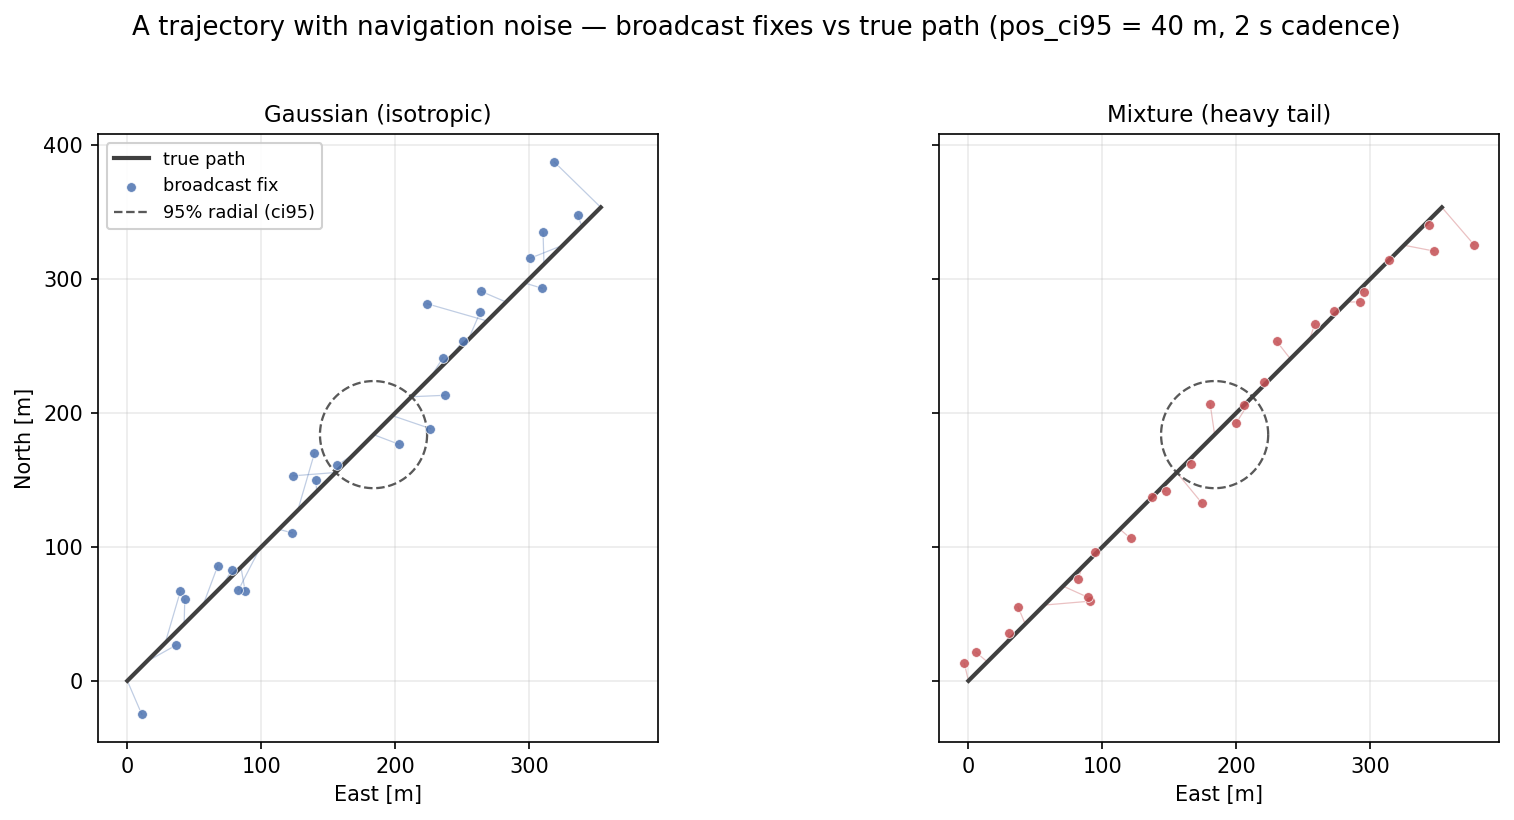
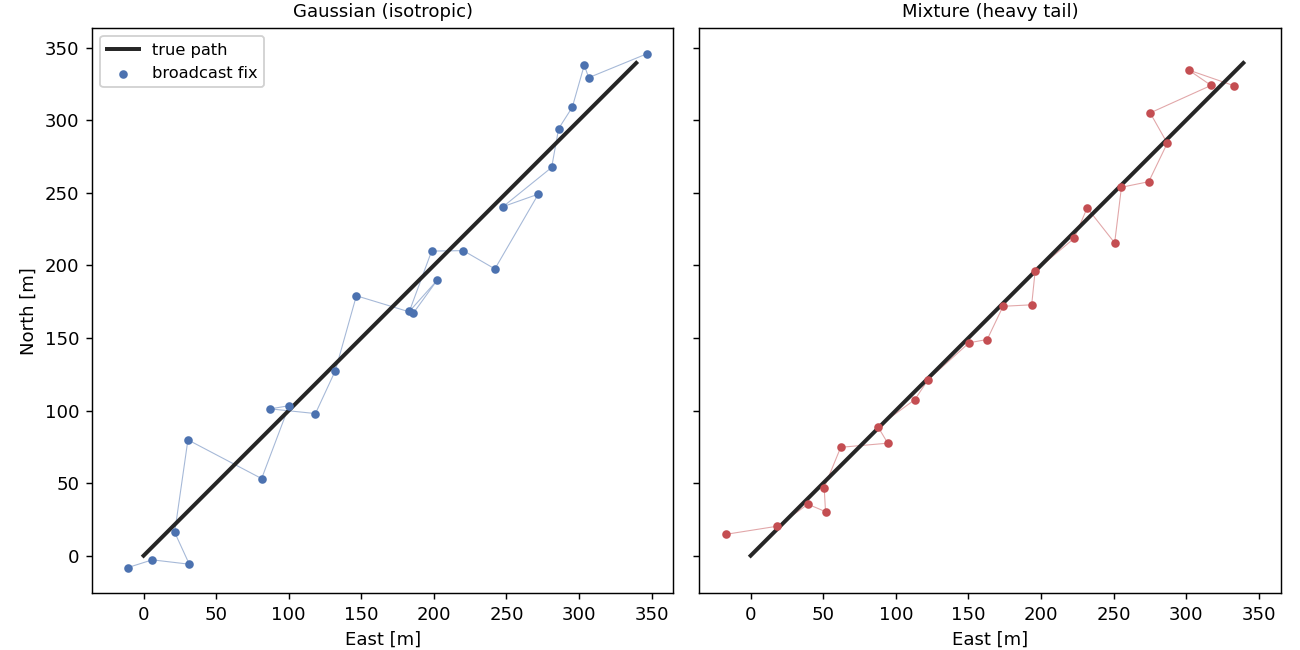
CNS handbook: finish surveillance, tidy navigation, nest Build-your-own
- surveillance.md: hold-as-is vs dead-reckoning, staleness as instrumentation,
  and asymmetric perception, each with a generated figure
- navigation.md: correct the own-state note (own fix carries noise but skips
  the comm layer), and move "add your own distribution" out to Build your own
- build-your-own/cns/: nested section (index + navigation) replacing the flat
  cns.md stub; update the build-your-own index link and mkdocs nav
- regenerate noisy-trajectory.png without the ci95 circle and title

diff --git a/docs/modules/cns/navigation.md b/docs/modules/cns/navigation.md
@@ -1,0 +1,148 @@
+# Navigation
+
+Navigation is the **N** of [CNS](index.md): it answers one question — **given an aircraft's true state, what does its own sensor report?** In OpenCDaRR the sensor is GNSS (GPS/ADS-B), modelled by
+[`GnssNavigation`](https://github.com/fazlurnu/OpenCDaRR/blob/main/opencdarr/cns/navigation.py),
+which measures position and velocity, each perturbed by a pluggable 2D error distribution, and returns a broadcastable `Message`. The error lives at the source and is applied once — everyone else perceives it through the broadcast that [communication](communication.md) then delivers.
+
+## Where the noise magnitude lives
+
+The noise magnitude is **not** a parameter of the navigation object. It is read
+from the aircraft being measured, via two fields on `AircraftState`:
+
+- `pos_ci95` — 95% radial position accuracy [m]
+- `vel_ci95` — 95% radial velocity accuracy [m/s]
+
+Accuracy is a property of *that aircraft's* sensor: it can differ between
+aircraft and may evolve over a run (e.g. degrading GPS coverage), so it travels
+with the clonable state rather than sitting on a shared navigation object. The
+default `0.0` on both means a perfect sensor — the measurement equals the truth,
+a clean regression to the no-noise case. `GnssNavigation` also **copies the same
+accuracy onto the broadcast**, so a receiver gets the sender's declared accuracy
+*with* the message, as ordinary state.
+
+## Position error — from CI95 to σ
+
+Position error is a zero-mean 2D isotropic Gaussian, each axis \(N(0, \sigma^2)\).
+GNSS accuracy is quoted as a **95% radial CI** — the radius containing 95% of
+fixes. The radial distance is Rayleigh, whose 95% quantile is
+\(\sigma\sqrt{\chi^2_{2,0.95}}\) with \(\chi^2_{2,0.95} = 5.9915\), so
+
+\[
+\text{CI95} = \sigma\sqrt{5.9915} = 2.4477\,\sigma
+\quad\Longrightarrow\quad
+\sigma = \frac{\text{CI95}}{2.4477} \approx 0.4085\,\text{CI95}.
+\]
+
+The error is drawn in the local East–North frame by the pluggable distribution,
+\((\text{rng}, \text{CI95}) \mapsto (e_E, e_N)\), and the measured position is the
+true position offset by that error through the project's own geodesy:
+
+\[
+\beta = \operatorname{atan2}(e_E, e_N), \quad
+\rho = \sqrt{e_E^2 + e_N^2}, \quad
+(\varphi', \lambda') = \texttt{geo.forward}(\varphi, \lambda, \beta, \rho).
+\]
+
+## Velocity error
+
+Velocity error is per-axis Gaussian \(N(0, \sigma_v^2)\) on the East–North
+components, with the same isotropic-2D CI95→σ conversion
+(\(\sigma_v = \text{vel\_ci95} / 2.4477\)). It is applied to the true velocity and
+converted back to a measured track and ground speed:
+
+\[
+(v_E, v_N) = \big(v\sin\psi + \varepsilon_E,\; v\cos\psi + \varepsilon_N\big),
+\quad
+\psi' = \operatorname{atan2}(v_E, v_N), \quad
+v' = \sqrt{v_E^2 + v_N^2}.
+\]
+
+The result is a `Message(source, state, t_meas)` — the noisy self-measurement,
+timestamped for the communication layer to deliver.
+
+!!! note "The own self-fix carries noise, but never staleness"
+    An aircraft decides on its **own noisy self-fix**, not on its true state —
+    both endpoints of an encounter carry navigation error. What the own fix skips
+    is the [communication](communication.md) layer: an aircraft always has a
+    *fresh* measurement of itself, never a dropped or stale one, whereas its view
+    of **others** is whatever the broadcast last delivered. All navigation draws
+    come from one dedicated RNG substream, drawn in agent order, so a run is fully
+    reproducible.
+
+## Noise distributions
+
+A noise distribution is any callable matching the `NoiseDistribution` protocol:
+
+```python
+(rng: np.random.Generator, ci95: float) -> tuple[float, float]   # (east, north) error [m]
+```
+
+OpenCDaRR ships four, all in
+[`opencdarr/cns/noise_distributions.py`](https://github.com/fazlurnu/OpenCDaRR/blob/main/opencdarr/cns/noise_distributions.py):
+
+| Distribution | Factory | Shape |
+|---|---|---|
+| Isotropic Gaussian | `gaussian` | circular, thin-tailed |
+| Heavy-tail mixture | `make_mixture_gaussian(tail_ratio, tail_weight)` | circular, occasional large outliers |
+| Anisotropic Gaussian | `make_anisotropic_gaussian(var_ratio)` | elliptical (North axis wider) |
+| Anisotropic mixture | `make_anisotropic_mixture_gaussian(...)` | elliptical **and** heavy-tailed |
+
+The single invariant every distribution preserves: **the 95th percentile of the
+2D radial error equals `ci95`**. That containment is what makes them
+interchangeable — you can swap in a heavier tail or an ellipse without changing
+what "50 m accuracy" means. For the Gaussian this is closed-form; for the others
+the calibrating scale is solved once per `ci95` by bisection and cached in the
+factory's closure, so per-sample draws stay cheap.
+
+![Position-error distributions: scatter per distribution with the 95% containment circle, and their radial CDFs all crossing 0.95 at ci95.](../../assets/noise-distributions.png)
+
+The scatters (top) all sit inside the same dashed `ci95` circle; the radial CDFs
+(bottom) all cross 0.95 at the same radius. The tail and the ellipse reshape
+*where* the error lands without changing the 95% budget — and note the anisotropy
+is invisible in the radial CDF: it only reshapes the scatter.
+
+!!! info "Anisotropy is axis-aligned, not track-aligned"
+    The wider axis of the anisotropic distributions is always **North**, not the
+    aircraft's heading. GPS position-error anisotropy comes from satellite
+    geometry, not the vehicle's direction of travel, so the error ellipse is not
+    oriented by track.
+
+## A trajectory with the noise
+
+Put navigation together with a moving aircraft and the noise becomes a stream of
+**broadcast fixes** scattered around the true path. Below, one aircraft flies a
+straight constant-speed leg (`pos_ci95 = 40 m`, a fix every 2 s); each dot is what
+a receiver would actually see for that tick.
+
+![A straight trajectory with navigation noise: broadcast fixes scattered around the true path, for the isotropic Gaussian and the heavy-tail mixture, both at pos_ci95 = 40 m.](../../assets/noisy-trajectory.png)
+
+Both panels share the same `ci95`, so the fixes stay within a comparable band of
+the true path. The difference is in the tails: the **Gaussian** jitters evenly
+around the line, while the **heavy-tail mixture** hugs the path more tightly most
+of the time but throws the occasional large outlier — the kind of rare, large
+error that dominates safety metrics. This is the whole point of the pluggable
+design: same declared accuracy, different failure behaviour.
+
+The plot above is produced by measuring the true state at each tick:
+
+```python
+import numpy as np
+from opencdarr.cns import GnssNavigation, make_mixture_gaussian
+from opencdarr.state import AircraftState
+
+nav = GnssNavigation(pos_distribution=make_mixture_gaussian(tail_ratio=3.0, tail_weight=0.1))
+rng = np.random.default_rng(0)
+
+true = AircraftState(id="OWN", lat=52.0, lon=4.0, trk=45.0, gs=10.0,
+                     pos_ci95=40.0, vel_ci95=0.0)
+
+msg = nav.measure(true, t=0.0, rng=rng)   # the broadcast fix a receiver sees
+print(msg.state.lat, msg.state.lon)       # noisy position; pos_ci95 rides along
+```
+
+## Adding your own noise distribution
+
+A distribution is just a callable, so you can add one without subclassing — write a
+plain function or a calibrating factory that preserves the 95% containment
+guarantee. See **[Build your own → CNS → Navigation](../../build-your-own/cns/navigation.md)**
+for the two patterns and a worked `uniform_disk` example.

diff --git a/docs/modules/cns/surveillance.md b/docs/modules/cns/surveillance.md
@@ -1,0 +1,50 @@
+# Surveillance
+
+Surveillance is the **S** of [CNS](index.md): given the messages [communication](communication.md) delivers or drops, what does an aircraft end up *holding* as its picture of the traffic? It is the receiving end of the chain — the state a decision actually reads.
+
+The default model, `LastKnown`, holds exactly the **last message each directed link delivered** — hold-as-is, with no dead-reckoning forward. Before a link's first delivery it holds *nothing*, and that neighbour is dropped from the perceived set entirely until first heard, rather than guessed at.
+
+## Hold-as-is, not dead-reckoning
+
+When an update is dropped or delayed, a receiver has a choice: **hold** the last message unchanged, or **extrapolate** it forward — dead-reckon the source along its last known velocity. `LastKnown` holds. The reasoning is in [ADR 0006](https://github.com/fazlurnu/OpenCDaRR/blob/main/vault/decisions/0006-communication-model-design.md): extrapolation assumes the source kept flying straight, which is wrong exactly when it matters most — the moment the source *starts* manoeuvring is the moment a dead-reckoned estimate diverges from reality. Holding the last message is the honest representation of what the receiver actually has: a fix of known age, not a guess dressed up as a measurement.
+
+The consequence is that the perceived state goes **stale** between updates. Below, a source flies a noise-free but time-varying ground speed and broadcasts it every second; the observer receives each broadcast only with probability 0.88 (an [ADS-B reception model](communication.md) — reception is a Bernoulli trial per link). Every dropped update leaves the observer holding the previous value, so the observed speed is a staircase that lags the truth.
+
+![Ground speed over one minute: the true noise-free speed as a smooth curve, and the observer's hold-as-is view as a staircase that freezes on each dropped update, lagging most where the true speed changes fastest.](../../assets/img/surveillance-hold-as-is.png)
+
+There is no measurement noise here at all — the source's speed is exact, and every *delivered* fix is exact. The entire gap between the black curve and the blue staircase comes from **missed messages alone**: at 0.88 reception roughly one broadcast in eight is dropped, and the observer simply keeps the last one it heard until the next arrives. The lag is largest where the true speed changes fastest (the steep parts of the curve) and vanishes at the turning points, where a stale value happens to still be right. This is the whole point of hold-as-is: staleness is visible and bounded by the update interval, rather than hidden inside a plausible-looking extrapolation.
+
+```python
+from opencdarr.cns.base import CommState, Message
+from opencdarr.cns.communication import Comm
+from opencdarr.cns.surveillance import LastKnown
+from opencdarr.rng import generator, root_seed_sequence
+from opencdarr.state import AircraftState
+
+comm = Comm(reception_prob={("SRC", "OBS"): 0.88})   # 88% of broadcasts reach OBS
+surveil = LastKnown()
+rng = generator(root_seed_sequence(0))
+state = CommState()
+
+source = AircraftState(id="SRC", lat=52.0, lon=4.0, trk=90.0, gs=24.0, vel_ci95=0.0)
+state = comm.step(state, [Message("SRC", source, t=0.0)], ["SRC", "OBS"], t=0.0, rng=rng)
+
+perceived = surveil.perceived(state, receiver="OBS", source="SRC", t_now=0.0)
+print(perceived.gs if perceived else "not heard yet")   # the held speed, or None before first contact
+```
+
+## Staleness is instrumentation, not behaviour
+
+Because hold-as-is never alters the held state, *how old* a belief is has no effect on what detection or resolution reads — it only tells you how much to trust it. `surveillance.age(state, receiver, source, t_now)` reports that age (`t_now − t_meas` of the held message, or `None` if nothing is held). It is a free function rather than a method precisely because every surveillance model would report the same age: staleness is a property of the message's timestamp, not of what the model does with it.
+
+## Asymmetric perception
+
+Reception and latency are drawn per **directed link**, so `A→B` can be delivered while `B→A` is dropped in the same tick. Two aircraft in the same encounter therefore build up *different* pictures of each other — one may be acting on a fresh fix while the other holds a stale one.
+
+Below is a single encounter with a deliberately lopsided channel: `A→B` is reliable (reception 0.9) while `B→A` is lossy (reception 0.5). Both aircraft fly noise-free speed profiles and broadcast every second, yet the two views are nothing alike.
+
+![Two panels from one encounter: B's view of A closely tracks A's true speed (9 of 60 updates dropped), while A's view of B is a coarse, stale staircase (24 of 60 dropped) — the same channel seen from each direction.](../../assets/img/surveillance-asymmetric.png)
+
+**B tracks A almost perfectly**, holding for a tick or two at most; **A's picture of B is coarse and often seconds stale**, freezing across long runs of dropped updates. Same encounter, same instant — but the quality of what each aircraft knows about the other is set entirely by its own incoming link.
+
+That asymmetry is what feeds the separation stack: [detection](../conflict-detection.md), [resolution](../conflict-resolution.md), and [recovery](../recovery-criteria.md) each run on the receiver's own perceived set, never on the truth, so two aircraft can disagree about whether a conflict even exists — and it is exactly the aircraft with the worse link, seeing the stalest picture, that is least equipped to notice.

diff --git a/docs/build-your-own/cns/navigation.md b/docs/build-your-own/cns/navigation.md
@@ -1,0 +1,52 @@
+# Navigation — adding your own noise distribution
+
+[`GnssNavigation`](../../modules/cns/navigation.md) perturbs position and velocity
+with a pluggable 2D error distribution. Because a distribution is just a callable,
+adding one needs no subclassing — write a function (or a factory returning one) that
+matches the protocol and preserves the containment guarantee. Two patterns:
+
+## Closed-form: a plain function
+
+If the 95% radius has a closed form, calibrate inline. A uniform-in-disk error is
+the simplest example — for a disk of radius \(R\), the radial CDF is \((r/R)^2\), so
+\(R = \text{ci95}/\sqrt{0.95}\) puts exactly 95% inside `ci95`:
+
+```python
+import math
+
+def uniform_disk(rng, ci95):
+    """Error drawn uniformly over a disk, calibrated to the 95% radial ci95."""
+    R = ci95 / math.sqrt(0.95)
+    r = R * math.sqrt(rng.random())      # sqrt makes it uniform by area
+    theta = rng.uniform(0.0, 2.0 * math.pi)
+    return r * math.cos(theta), r * math.sin(theta)
+```
+
+Then plug it straight into navigation:
+
+```python
+from opencdarr.cns import GnssNavigation
+
+nav = GnssNavigation(pos_distribution=uniform_disk)   # vel_distribution defaults to gaussian
+```
+
+## No closed form: a calibrating factory
+
+When there is no closed form for the 95% radius (a heavy tail, an ellipse), follow
+the pattern the built-ins use: a **factory** that solves the calibrating scale once
+per `ci95` by bisection and caches it in a closure, returning the per-sample
+callable. See `make_mixture_gaussian` in
+[`noise_distributions.py`](https://github.com/fazlurnu/OpenCDaRR/blob/main/opencdarr/cns/noise_distributions.py)
+for the reference implementation — the bisection drives the analytic radial CDF to
+0.05 (tail probability) and the `_cache` dict keeps repeated `ci95` values cheap.
+
+!!! warning "Keep the containment guarantee"
+    Every built-in distribution puts exactly 95% of its radial mass inside `ci95`.
+    Preserve that in a custom distribution — otherwise `pos_ci95` no longer means
+    "95% accuracy," and comparisons against the built-ins stop being apples to
+    apples. A quick check: draw many samples, take the 95th percentile of
+    `hypot(east, north)`, and confirm it lands on `ci95`.
+
+A separate `vel_distribution` argument lets you supply a different (or the same)
+model for velocity error, since position and velocity come from independent GNSS
+observables (pseudorange vs Doppler).

diff --git a/docs/build-your-own/index.md b/docs/build-your-own/index.md
@@ -9,7 +9,7 @@ Everything in OpenCDaRR that you might change is either a plain value or an inte
 - **[Conflict Resolution](conflict-resolution.md)** — the avoidance manoeuvre.
 - **[Recovery Criteria](recovery-criteria.md)** — deciding when to return to the plan.
 - **[Separation Manager](separation-manager.md)** — wiring detection, resolution, and recovery together.
-- **[CNS](cns.md)** — navigation, communication, and surveillance.
+- **[CNS](cns/index.md)** — navigation, communication, and surveillance.
 
 Each interface and what it does is listed on the [How it works](../how-it-works.md) page. The pages here show how to supply your own.
 

diff --git a/docs/build-your-own/cns/index.md b/docs/build-your-own/cns/index.md
@@ -1,0 +1,13 @@
+# CNS
+
+Model your own communication, navigation, and surveillance by subclassing
+`NavigationModel` (`measure`), `CommunicationModel` (`step`), or `SurveillanceModel`
+(`perceived`) — see `GnssNavigation`, `Comm`, and `LastKnown` for the reference
+implementations.
+
+- **[Navigation](navigation.md)** — add your own position- or velocity-error
+  distribution without subclassing: a distribution is just a callable, so a plain
+  function (or a calibrating factory) is enough.
+
+!!! note "Draft"
+    Communication and surveillance recipes to be written.
